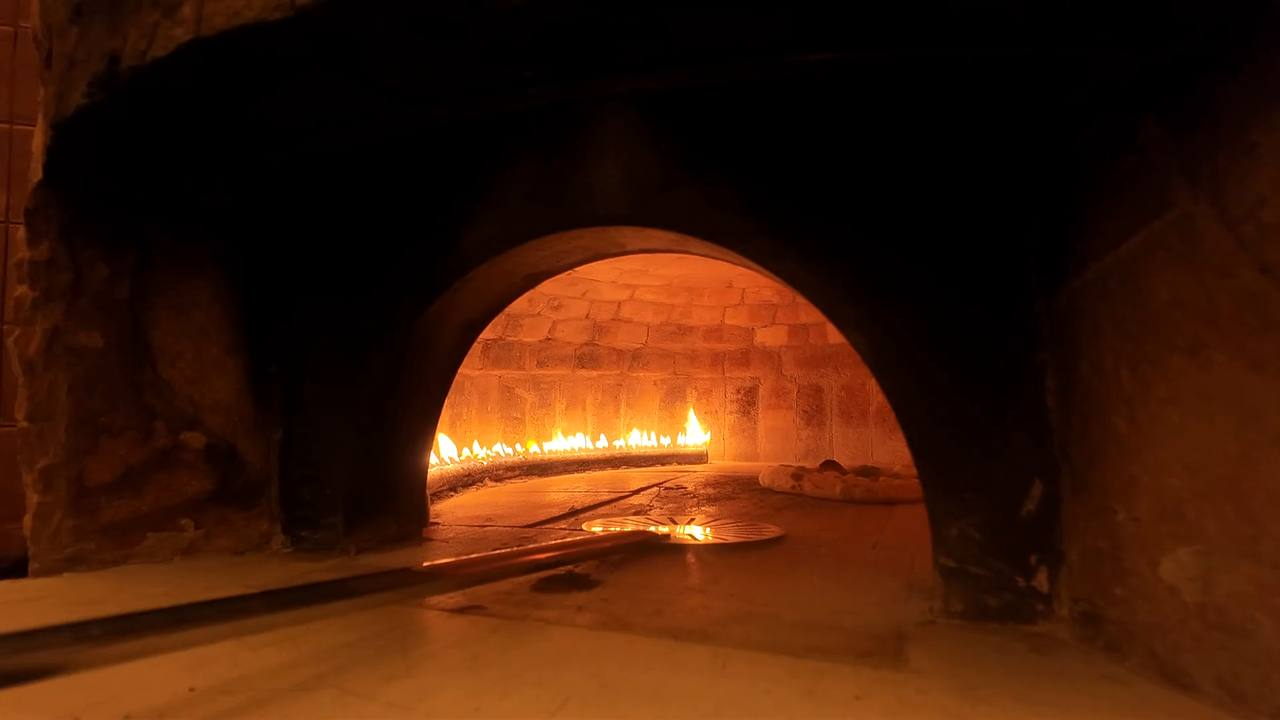
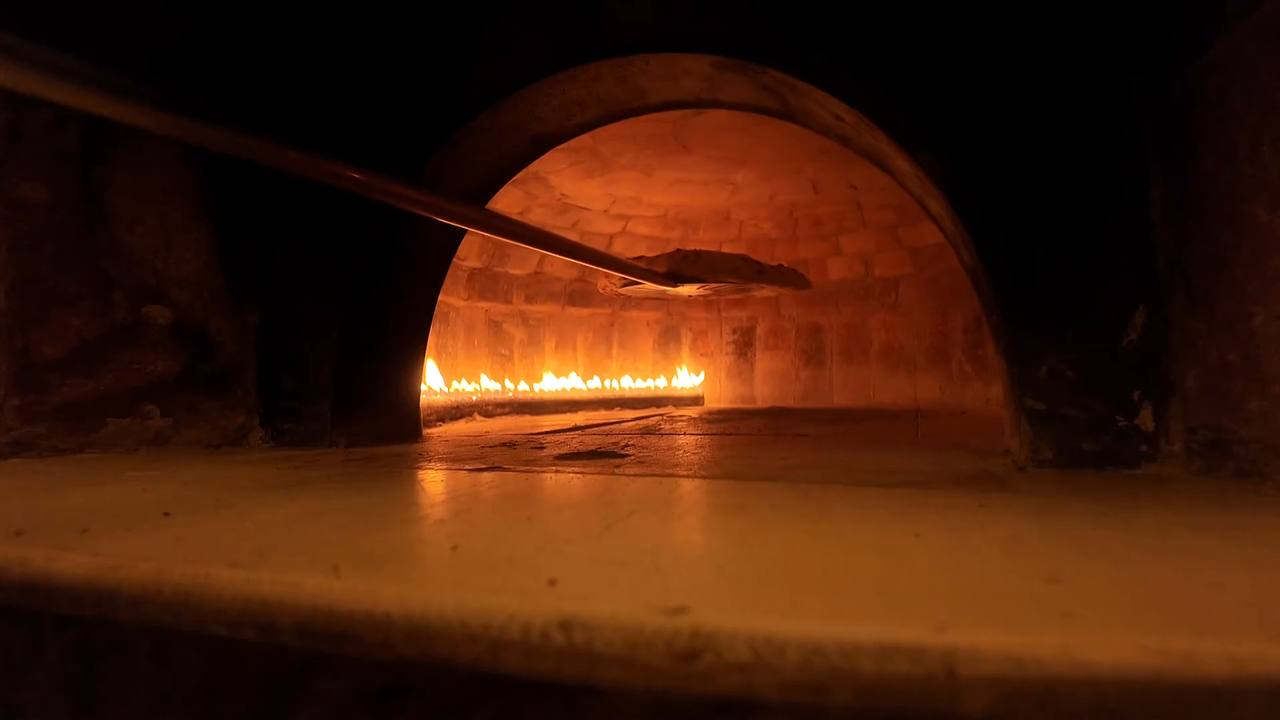
One continuous opening take; harden scroll film
- Pages one and two now play one continuous clip (no blend between clips)
- Denser frames through the camera swing
- Animation loop can no longer stop on a single frame error
- GPU errors / lost GPU context fall back to the 2D renderer
- Film downloads retry and are size-checked
- Phone rendering at the frames' native sharpness (less GPU load)

Claude-Session: https://claude.ai/code/session_017aSYkExJP4T4vXk3EamJRV

diff --git a/index.html b/index.html
@@ -437,7 +437,7 @@ footer .cols p{margin:0;max-width:70ch}
 <script>
 (()=>{
 "use strict";
-const SCENES={"oven":{"clip":39235626,"n":54,"d":[[0,35740],[35740,36372],[72112,36388],[108500,37065],[145565,37171],[182736,37197],[219933,37429],[257362,37205],[294567,37565],[332132,37301],[369433,36942],[406375,36518],[442893,36294],[479187,35791],[514978,35700],[550678,35978],[586656,36073],[622729,36647],[659376,36615],[695991,36679],[732670,36415],[769085,35722],[804807,35390],[840197,35523],[875720,35773],[911493,35118],[946611,35211],[981822,34676],[1016498,34458],[1050956,34788],[1085744,34705],[1120449,34988],[1155437,35598],[1191035,35930],[1226965,35802],[1262767,36278],[1299045,35987],[1335032,35881],[1370913,36199],[1407112,36198],[1443310,36746],[1480056,36833],[1516889,36803],[1553692,36996],[1590688,36227],[1626915,35592],[1662507,35682],[1698189,35875],[1734064,34855],[1768919,34775],[1803694,35449],[1839143,35639],[1874782,35886],[1910668,35090]],"m":[[0,24459],[24459,24672],[49131,24778],[73909,25272],[99181,25237],[124418,25334],[149752,25526],[175278,25562],[200840,25796],[226636,25538],[252174,25554],[277728,25399],[303127,25484],[328611,25294],[353905,25353],[379258,25630],[404888,25618],[430506,25979],[456485,26306],[482791,26082],[508873,25715],[534588,25006],[559594,25311],[584905,25646],[610551,25832],[636383,25407],[661790,25487],[687277,25078],[712355,24877],[737232,24963],[762195,24641],[786836,24684],[811520,25019],[836539,25236],[861775,24927],[886702,25168],[911870,25159],[937029,25004],[962033,25158],[987191,25018],[1012209,25475],[1037684,25278],[1062962,25317],[1088279,25208],[1113487,25035],[1138522,24861],[1163383,24639],[1188022,24494],[1212516,23619],[1236135,23291],[1259426,23384],[1282810,23701],[1306511,23757],[1330268,23065]],"mx0":0.2948,"mcw":0.45},"peel":{"clip":39235627,"n":84,"d":[[0,33680],[33680,35114],[68794,35333],[104127,36004],[140131,35535],[175666,34745],[210411,34818],[245229,35339],[280568,34958],[315526,35380],[350906,35137],[386043,34874],[420917,34146],[455063,33368],[488431,33378],[521809,33720],[555529,33444],[588973,33553],[622526,33534],[656060,33920],[689980,33982],[723962,35519],[759481,35424],[794905,35153],[830058,33353],[863411,32317],[895728,32442],[928170,32054],[960224,31002],[991226,31131],[1022357,31482],[1053839,31401],[1085240,32247],[1117487,31488],[1148975,32164],[1181139,32026],[1213165,31141],[1244306,31505],[1275811,31752],[1307563,30761],[1338324,31953],[1370277,35766],[1406043,37189],[1443232,37646],[1480878,37434],[1518312,36460],[1554772,35794],[1590566,35160],[1625726,34529],[1660255,35453],[1695708,35785],[1731493,37570],[1769063,37064],[1806127,36012],[1842139,33695],[1875834,31959],[1907793,32424],[1940217,33949],[1974166,35127],[2009293,34487],[2043780,33400],[2077180,32252],[2109432,32636],[2142068,33261],[2175329,32764],[2208093,33067],[2241160,33100],[2274260,33837],[2308097,31541],[2339638,33262],[2372900,32776],[2405676,33605],[2439281,33887],[2473168,33144],[2506312,33815],[2540127,36316],[2576443,36601],[2613044,37927],[2650971,37780],[2688751,37527],[2726278,37365],[2763643,37945],[2801588,38668],[2840256,40611]],"m":[[0,23815],[23815,25476],[49291,25955],[75246,26321],[101567,25885],[127452,25038],[152490,24823],[177313,24908],[202221,24418],[226639,24634],[251273,24048],[275321,23902],[299223,23032],[322255,21883],[344138,21764],[365902,21576],[387478,21185],[408663,20826],[429489,20522],[450011,20981],[470992,21319],[492311,22730],[515041,22542],[537583,22631],[560214,21669],[581883,21218],[603101,21862],[624963,22645],[647608,21019],[668627,20875],[689502,20945],[710447,20754],[731201,21494],[752695,21117],[773812,21556],[795368,21410],[816778,20555],[837333,20612],[857945,21233],[879178,20722],[899900,21532],[921432,24980],[946412,25990],[972402,26594],[998996,26252],[1025248,24985],[1050233,24116],[1074349,23369],[1097718,22877],[1120595,23699],[1144294,23518],[1167812,24736],[1192548,24124],[1216672,23438],[1240110,21525],[1261635,20321],[1281956,20402],[1302358,21397],[1323755,22182],[1345937,21202],[1367139,19739],[1386878,19359],[1406237,19658],[1425895,20028],[1445923,19785],[1465708,19718],[1485426,19547],[1504973,20262],[1525235,19084],[1544319,19998],[1564317,19712],[1584029,19871],[1603900,19964],[1623864,19470],[1643334,20548],[1663882,22305],[1686187,22470],[1708657,23709],[1732366,23320],[1755686,22569],[1778255,22367],[1800622,23037],[1823659,24061],[1847720,26335]],"mx0":0.275,"mcw":0.45},"blister":{"clip":10802555,"n":60,"d":[[0,39429],[39429,40670],[80099,41238],[121337,43835],[165172,44861],[210033,45623],[255656,47006],[302662,47257],[349919,47652],[397571,48415],[445986,48337],[494323,48375],[542698,48338],[591036,47896],[638932,46430],[685362,47030],[732392,46850],[779242,47127],[826369,47204],[873573,46135],[919708,45826],[965534,46192],[1011726,46581],[1058307,47148],[1105455,47653],[1153108,47808],[1200916,47559],[1248475,47179],[1295654,47287],[1342941,48090],[1391031,47888],[1438919,48334],[1487253,48058],[1535311,47687],[1582998,47588],[1630586,47850],[1678436,48030],[1726466,48520],[1774986,48203],[1823189,47986],[1871175,47944],[1919119,48071],[1967190,48649],[2015839,49542],[2065381,49872],[2115253,49774],[2165027,49863],[2214890,44569],[2259459,44634],[2304093,46342],[2350435,47937],[2398372,48852],[2447224,49220],[2496444,49696],[2546140,49825],[2595965,50155],[2646120,50086],[2696206,49779],[2745985,50362],[2796347,50777]],"m":[[0,21918],[21918,22271],[44189,22546],[66735,23892],[90627,24386],[115013,24715],[139728,25592],[165320,25715],[191035,25922],[216957,26253],[243210,26290],[269500,26133],[295633,26214],[321847,25904],[347751,25067],[372818,25034],[397852,24858],[422710,24763],[447473,24666],[472139,24254],[496393,24079],[520472,24407],[544879,24619],[569498,25016],[594514,25270],[619784,25333],[645117,25455],[670572,25289],[695861,25346],[721207,25579],[746786,25425],[772211,25471],[797682,25519],[823201,25357],[848558,25400],[873958,25629],[899587,25765],[925352,26025],[951377,25831],[977208,25697],[1002905,25761],[1028666,25744],[1054410,25988],[1080398,26385],[1106783,26729],[1133512,26674],[1160186,26871],[1187057,23906],[1210963,23922],[1234885,24818],[1259703,25742],[1285445,25902],[1311347,26139],[1337486,26229],[1363715,26366],[1390081,26474],[1416555,26358],[1442913,26378],[1469291,26732],[1496023,26885]],"mx0":0.325,"mcw":0.45},"fire":{"clip":5659678,"n":60,"d":[[0,28600],[28600,23347],[51947,30765],[82712,29602],[112314,29395],[141709,26617],[168326,33437],[201763,31006],[232769,29184],[261953,34437],[296390,24945],[321335,28822],[350157,29763],[379920,26873],[406793,24959],[431752,26752],[458504,32943],[491447,27638],[519085,29820],[548905,33634],[582539,29404],[611943,30837],[642780,32114],[674894,26270],[701164,30390],[731554,32276],[763830,25133],[788963,23622],[812585,26273],[838858,33434],[872292,29277],[901569,31846],[933415,33656],[967071,30257],[997328,30723],[1028051,35755],[1063806,24300],[1088106,29918],[1118024,31466],[1149490,29102],[1178592,25357],[1203949,28646],[1232595,33694],[1266289,30849],[1297138,32447],[1329585,32899],[1362484,32412],[1394896,30604],[1425500,22280],[1447780,21936],[1469716,29564],[1499280,30541],[1529821,25970],[1555791,25982],[1581773,26843],[1608616,32468],[1641084,31836],[1672920,31970],[1704890,28983],[1733873,30897]],"m":[[0,20116],[20116,16076],[36192,20262],[56454,20409],[76863,19563],[96426,18055],[114481,23072],[137553,19620],[157173,19319],[176492,21513],[198005,17917],[215922,20762],[236684,20460],[257144,17530],[274674,18869],[293543,17605],[311148,22256],[333404,18615],[352019,20517],[372536,22608],[395144,18995],[414139,20289],[434428,20056],[454484,18930],[473414,21595],[495009,21851],[516860,16764],[533624,17017],[550641,18003],[568644,21532],[590176,19553],[609729,22241],[631970,23250],[655220,21171],[676391,19861],[696252,22729],[718981,16806],[735787,21889],[757676,22988],[780664,21436],[802100,19466],[821566,20330],[841896,22372],[864268,21594],[885862,22497],[908359,21684],[930043,22740],[952783,20256],[973039,13533],[986572,15825],[1002397,20525],[1022922,22159],[1045081,18003],[1063084,19168],[1082252,18787],[1101039,20758],[1121797,21357],[1143154,22215],[1165369,18528],[1183897,21766]],"mx0":0.275,"mcw":0.45},"flour":{"clip":8135841,"n":60,"mx0":0.075,"mcw":0.45,"d":[[0,55085],[55085,54868],[109953,54566],[164519,54733],[219252,54341],[273593,54950],[328543,54354],[382897,54865],[437762,54713],[492475,55176],[547651,55120],[602771,55678],[658449,55764],[714213,56404],[770617,57086],[827703,57297],[885000,57630],[942630,58131],[1000761,58812],[1059573,58860],[1118433,58924],[1177357,58493],[1235850,58805],[1294655,59009],[1353664,59850],[1413514,60425],[1473939,60556],[1534495,61238],[1595733,60971],[1656704,61012],[1717716,60417],[1778133,60444],[1838577,59380],[1897957,59948],[1957905,59097],[2017002,59304],[2076306,59089],[2135395,59141],[2194536,58664],[2253200,58750],[2311950,58168],[2370118,58362],[2428480,57421],[2485901,57672],[2543573,56686],[2600259,57114],[2657373,56006],[2713379,56114],[2769493,55218],[2824711,55047],[2879758,55372],[2935130,55394],[2990524,56048],[3046572,56203],[3102775,55945],[3158720,56385],[3215105,55336],[3270441,55091],[3325532,54882],[3380414,55057]],"m":[[0,22989],[22989,22951],[45940,22804],[68744,22854],[91598,22781],[114379,22985],[137364,22955],[160319,23170],[183489,23416],[206905,23621],[230526,23899],[254425,24235],[278660,24594],[303254,25086],[328340,25796],[354136,26320],[380456,26661],[407117,27224],[434341,28002],[462343,28007],[490350,27829],[518179,27529],[545708,27409],[573117,27578],[600695,28052],[628747,28356],[657103,28556],[685659,29198],[714857,29031],[743888,28870],[772758,28435],[801193,28197],[829390,27523],[856913,27305],[884218,26624],[910842,26787],[937629,26618],[964247,26593],[990840,26532],[1017372,26361],[1043733,26137],[1069870,26313],[1096183,26080],[1122263,26145],[1148408,25778],[1174186,25866],[1200052,25357],[1225409,25137],[1250546,24432],[1274978,24106],[1299084,24190],[1323274,24394],[1347668,24734],[1372402,24628],[1397030,24386],[1421416,24271],[1445687,23933],[1469620,23577],[1493197,23497],[1516694,23499]]},"fold":{"clip":8094235,"n":90,"mx0":0.275,"mcw":0.45,"d":[[0,48257],[48257,48653],[96910,48840],[145750,48362],[194112,47408],[241520,47113],[288633,46285],[334918,45906],[380824,46302],[427126,46973],[474099,46751],[520850,47176],[568026,46275],[614301,47117],[661418,47186],[708604,46860],[755464,46043],[801507,45736],[847243,45742],[892985,45831],[938816,45836],[984652,45802],[1030454,45656],[1076110,45664],[1121774,45110],[1166884,45162],[1212046,44418],[1256464,44303],[1300767,43540],[1344307,44228],[1388535,44728],[1433263,45957],[1479220,45899],[1525119,45248],[1570367,45640],[1616007,45098],[1661105,44632],[1705737,45297],[1751034,44483],[1795517,44170],[1839687,43613],[1883300,42971],[1926271,45020],[1971291,44629],[2015920,45597],[2061517,47110],[2108627,47161],[2155788,47477],[2203265,45724],[2248989,46287],[2295276,46315],[2341591,43075],[2384666,44229],[2428895,47033],[2475928,48606],[2524534,49477],[2574011,48731],[2622742,48015],[2670757,46906],[2717663,46311],[2763974,45131],[2809105,46688],[2855793,46479],[2902272,46712],[2948984,47402],[2996386,47684],[3044070,47288],[3091358,44458],[3135816,43236],[3179052,43427],[3222479,42996],[3265475,42464],[3307939,41591],[3349530,42051],[3391581,41576],[3433157,41742],[3474899,41405],[3516304,41507],[3557811,41150],[3598961,41529],[3640490,41325],[3681815,41532],[3723347,41557],[3764904,41757],[3806661,41206],[3847867,41208],[3889075,40999],[3930074,41314],[3971388,41310],[4012698,41062]],"m":[[0,25316],[25316,25869],[51185,25853],[77038,25592],[102630,25221],[127851,25156],[153007,24728],[177735,24475],[202210,24488],[226698,24608],[251306,24597],[275903,24913],[300816,24517],[325333,24939],[350272,24960],[375232,24852],[400084,24392],[424476,23999],[448475,24025],[472500,24139],[496639,24275],[520914,24213],[545127,23769],[568896,23947],[592843,23809],[616652,23983],[640635,23813],[664448,23594],[688042,23601],[711643,23795],[735438,24111],[759549,24623],[784172,24314],[808486,24292],[832778,24646],[857424,24568],[881992,23909],[905901,23917],[929818,22561],[952379,22915],[975294,23563],[998857,22232],[1021089,23370],[1044459,23395],[1067854,23627],[1091481,24485],[1115966,24627],[1140593,24733],[1165326,23320],[1188646,23351],[1211997,23761],[1235758,20932],[1256690,21204],[1277894,21744],[1299638,23061],[1322699,23875],[1346574,24103],[1370677,23927],[1394604,23737],[1418341,24172],[1442513,23303],[1465816,22957],[1488773,22801],[1511574,23614],[1535188,24351],[1559539,24587],[1584126,24309],[1608435,22940],[1631375,21642],[1653017,21537],[1674554,22027],[1696581,21940],[1718521,21764],[1740285,22105],[1762390,22235],[1784625,22438],[1807063,22401],[1829464,22682],[1852146,22568],[1874714,22620],[1897334,22448],[1919782,22239],[1942021,22103],[1964124,22320],[1986444,22077],[2008521,22032],[2030553,21865],[2052418,21800],[2074218,21916],[2096134,21667]]},"steam":{"clip":8094284,"n":60,"d":[[0,77318],[77318,77275],[154593,77005],[231598,77240],[308838,77506],[386344,76969],[463313,78016],[541329,78235],[619564,78251],[697815,78017],[775832,78285],[854117,78877],[932994,78718],[1011712,78547],[1090259,78818],[1169077,79260],[1248337,79261],[1327598,79412],[1407010,79627],[1486637,79864],[1566501,79931],[1646432,80131],[1726563,79863],[1806426,79658],[1886084,78566],[1964650,77802],[2042452,77997],[2120449,78634],[2199083,78793],[2277876,78937],[2356813,78996],[2435809,78944],[2514753,79011],[2593764,79310],[2673074,79042],[2752116,79472],[2831588,79571],[2911159,79696],[2990855,80251],[3071106,80300],[3151406,80728],[3232134,80209],[3312343,80578],[3392921,80982],[3473903,80499],[3554402,79598],[3634000,78936],[3712936,78451],[3791387,78608],[3869995,78136],[3948131,78861],[4026992,79635],[4106627,78905],[4185532,78722],[4264254,79353],[4343607,79050],[4422657,79397],[4502054,79268],[4581322,79783],[4661105,79598]],"m":[[0,43385],[43385,43129],[86514,43100],[129614,43198],[172812,43275],[216087,43254],[259341,43750],[303091,43723],[346814,43861],[390675,43695],[434370,43799],[478169,44208],[522377,44233],[566610,44369],[610979,44185],[655164,44443],[699607,44555],[744162,44596],[788758,44880],[833638,44835],[878473,44708],[923181,44939],[968120,45160],[1013280,44812],[1058092,44077],[1102169,43881],[1146050,43831],[1189881,43819],[1233700,44135],[1277835,44111],[1321946,44072],[1366018,44127],[1410145,44403],[1454548,44567],[1499115,44514],[1543629,44520],[1588149,44335],[1632484,44793],[1677277,45255],[1722532,45138],[1767670,45251],[1812921,44938],[1857859,45275],[1903134,45466],[1948600,45147],[1993747,44534],[2038281,43832],[2082113,43801],[2125914,43957],[2169871,43633],[2213504,43921],[2257425,43915],[2301340,43874],[2345214,43695],[2388909,43991],[2432900,43981],[2476881,44286],[2521167,44231],[2565398,44309],[2609707,44258]],"mx0":0.4948,"mcw":0.45}};
+const SCENES={"oven":{"clip":39235627,"n":76,"mx0":0.275,"mcw":0.45,"d":[[0,33057],[33057,34632],[67689,34872],[102561,35053],[137614,35230],[172844,35250],[208094,36001],[244095,35791],[279886,35597],[315483,35535],[351018,34884],[385902,35047],[420949,34589],[455538,34818],[490356,34841],[525197,35339],[560536,35281],[595817,34958],[630775,35278],[666053,35380],[701433,35849],[737282,34950],[772232,34842],[807074,34874],[841948,34682],[876630,34529],[911159,34031],[945190,33612],[978802,33399],[1012201,33267],[1045468,33663],[1079131,33396],[1112527,33370],[1145897,33266],[1179163,33873],[1213036,33670],[1246706,33632],[1280338,33406],[1313744,33206],[1346950,33988],[1380938,34068],[1415006,34081],[1449087,34329],[1483416,35331],[1518747,35982],[1554729,35607],[1590336,35424],[1625760,35052],[1660812,34178],[1694990,34345],[1729335,33353],[1762688,33126],[1795814,32317],[1828131,32195],[1860326,32747],[1893073,32925],[1925998,32054],[1958052,31738],[1989790,30968],[2020758,31092],[2051850,30744],[2082594,31229],[2113823,31532],[2145355,31563],[2176918,32038],[2208956,31498],[2240454,31977],[2272431,31532],[2303963,31298],[2335261,32001],[2367262,31893],[2399155,32497],[2431652,32216],[2463868,32447],[2496315,31851],[2528166,30611]],"m":[[0,23144],[23144,24805],[47949,25352],[73301,25597],[98898,25688],[124586,25732],[150318,26319],[176637,26057],[202694,26125],[228819,25885],[254704,25292],[279996,25213],[305209,24747],[329956,24823],[354779,24777],[379556,24908],[404464,24811],[429275,24418],[453693,24510],[478203,24634],[502837,24863],[527700,23956],[551656,23919],[575575,23902],[599477,23674],[623151,23436],[646587,22719],[669306,22120],[691426,21944],[713370,21766],[735136,21684],[756820,21530],[778350,21327],[799677,21186],[820863,21328],[842191,20981],[863172,20729],[883901,20557],[904458,20271],[924729,20828],[945557,21119],[966676,21214],[987890,21615],[1009505,22525],[1032030,23033],[1055063,22660],[1077723,22542],[1100265,22433],[1122698,21872],[1144570,22056],[1166626,21669],[1188295,21641],[1209936,21218],[1231154,21265],[1252419,21871],[1274290,22545],[1296835,22645],[1319480,22220],[1341700,21090],[1362790,20998],[1383788,20482],[1404270,20925],[1425195,21074],[1446269,20998],[1467267,21211],[1488478,21013],[1509491,21202],[1530693,20804],[1551497,20889],[1572386,21278],[1593664,21483],[1615147,21789],[1636936,21760],[1658696,21827],[1680523,21057],[1701580,20086]]},"peel":{"clip":39235627,"n":96,"mx0":0.275,"mcw":0.45,"d":[[0,31116],[31116,31291],[62407,30796],[93203,31418],[124621,31185],[155806,30821],[186627,30935],[217562,32331],[249893,33136],[283029,36160],[319189,37070],[356259,37393],[393652,37257],[430909,37646],[468555,37414],[505969,37033],[543002,36753],[579755,36460],[616215,36891],[653106,35794],[688900,35709],[724609,35160],[759769,34521],[794290,34529],[828819,33925],[862744,34893],[897637,35520],[933157,35785],[968942,36790],[1005732,37338],[1043070,37462],[1080532,37064],[1117596,37001],[1154597,37237],[1191834,35301],[1227135,34262],[1261397,32448],[1293845,31841],[1325686,32267],[1357953,32002],[1389955,32314],[1422269,33133],[1455402,34391],[1489793,35423],[1525216,35238],[1560454,34740],[1595194,33909],[1629103,33361],[1662464,33749],[1696213,32566],[1728779,32455],[1761234,32361],[1793595,33065],[1826660,33209],[1859869,33279],[1893148,32698],[1925846,32413],[1958259,33155],[1991414,33589],[2025003,33172],[2058175,33338],[2091513,33603],[2125116,33837],[2158953,33122],[2192075,31794],[2223869,32792],[2256661,33262],[2289923,33295],[2323218,32776],[2355994,32963],[2388957,33605],[2422562,33580],[2456142,33887],[2490029,33427],[2523456,33303],[2556759,33039],[2589798,33815],[2623613,35194],[2658807,35712],[2694519,36407],[2730926,36601],[2767527,36949],[2804476,37898],[2842374,37934],[2880308,38374],[2918682,37811],[2956493,37086],[2993579,37323],[3030902,37064],[3067966,37640],[3105606,37812],[3143418,38113],[3181531,38722],[3220253,38842],[3259095,40236],[3299331,40569]],"m":[[0,20403],[20403,20521],[40924,20280],[61204,20924],[82128,20768],[102896,20640],[123536,20742],[144278,21668],[165946,22603],[188549,25364],[213913,25852],[239765,26207],[265972,26091],[292063,26594],[318657,26269],[344926,25794],[370720,25499],[396219,24985],[421204,25196],[446400,24116],[470516,23985],[494501,23369],[517870,22819],[540689,22877],[563566,22620],[586186,23349],[609535,23739],[633274,23518],[656792,24396],[681188,24411],[705599,24598],[730197,24124],[754321,24026],[778347,24109],[802456,22847],[825303,22086],[847389,20730],[868119,20213],[888332,20468],[908800,20129],[928929,20244],[949173,20715],[969888,21685],[991573,22418],[1013991,22306],[1036297,21724],[1058021,20754],[1078775,19798],[1098573,20052],[1118625,19345],[1137970,19521],[1157491,19534],[1177025,19911],[1196936,20020],[1216956,19953],[1236909,19725],[1256634,19623],[1276257,19850],[1296107,20053],[1316160,19720],[1335880,19718],[1355598,19960],[1375558,20262],[1395820,19809],[1415629,19127],[1434756,19756],[1454512,19998],[1474510,20050],[1494560,19712],[1514272,19562],[1533834,19871],[1553705,19774],[1573479,19964],[1593443,19662],[1613105,19543],[1632648,19610],[1652258,20548],[1672806,21568],[1694374,21909],[1716283,22412],[1738695,22470],[1761165,22585],[1783750,23698],[1807448,23693],[1831141,23777],[1854918,23030],[1877948,22271],[1900219,22215],[1922434,22123],[1944557,22495],[1967052,22806],[1989858,23334],[2013192,24038],[2037230,24349],[2061579,25536],[2087115,26421]]},"blister":{"clip":10802555,"n":60,"d":[[0,39429],[39429,40670],[80099,41238],[121337,43835],[165172,44861],[210033,45623],[255656,47006],[302662,47257],[349919,47652],[397571,48415],[445986,48337],[494323,48375],[542698,48338],[591036,47896],[638932,46430],[685362,47030],[732392,46850],[779242,47127],[826369,47204],[873573,46135],[919708,45826],[965534,46192],[1011726,46581],[1058307,47148],[1105455,47653],[1153108,47808],[1200916,47559],[1248475,47179],[1295654,47287],[1342941,48090],[1391031,47888],[1438919,48334],[1487253,48058],[1535311,47687],[1582998,47588],[1630586,47850],[1678436,48030],[1726466,48520],[1774986,48203],[1823189,47986],[1871175,47944],[1919119,48071],[1967190,48649],[2015839,49542],[2065381,49872],[2115253,49774],[2165027,49863],[2214890,44569],[2259459,44634],[2304093,46342],[2350435,47937],[2398372,48852],[2447224,49220],[2496444,49696],[2546140,49825],[2595965,50155],[2646120,50086],[2696206,49779],[2745985,50362],[2796347,50777]],"m":[[0,21918],[21918,22271],[44189,22546],[66735,23892],[90627,24386],[115013,24715],[139728,25592],[165320,25715],[191035,25922],[216957,26253],[243210,26290],[269500,26133],[295633,26214],[321847,25904],[347751,25067],[372818,25034],[397852,24858],[422710,24763],[447473,24666],[472139,24254],[496393,24079],[520472,24407],[544879,24619],[569498,25016],[594514,25270],[619784,25333],[645117,25455],[670572,25289],[695861,25346],[721207,25579],[746786,25425],[772211,25471],[797682,25519],[823201,25357],[848558,25400],[873958,25629],[899587,25765],[925352,26025],[951377,25831],[977208,25697],[1002905,25761],[1028666,25744],[1054410,25988],[1080398,26385],[1106783,26729],[1133512,26674],[1160186,26871],[1187057,23906],[1210963,23922],[1234885,24818],[1259703,25742],[1285445,25902],[1311347,26139],[1337486,26229],[1363715,26366],[1390081,26474],[1416555,26358],[1442913,26378],[1469291,26732],[1496023,26885]],"mx0":0.325,"mcw":0.45},"fire":{"clip":5659678,"n":60,"d":[[0,28600],[28600,23347],[51947,30765],[82712,29602],[112314,29395],[141709,26617],[168326,33437],[201763,31006],[232769,29184],[261953,34437],[296390,24945],[321335,28822],[350157,29763],[379920,26873],[406793,24959],[431752,26752],[458504,32943],[491447,27638],[519085,29820],[548905,33634],[582539,29404],[611943,30837],[642780,32114],[674894,26270],[701164,30390],[731554,32276],[763830,25133],[788963,23622],[812585,26273],[838858,33434],[872292,29277],[901569,31846],[933415,33656],[967071,30257],[997328,30723],[1028051,35755],[1063806,24300],[1088106,29918],[1118024,31466],[1149490,29102],[1178592,25357],[1203949,28646],[1232595,33694],[1266289,30849],[1297138,32447],[1329585,32899],[1362484,32412],[1394896,30604],[1425500,22280],[1447780,21936],[1469716,29564],[1499280,30541],[1529821,25970],[1555791,25982],[1581773,26843],[1608616,32468],[1641084,31836],[1672920,31970],[1704890,28983],[1733873,30897]],"m":[[0,20116],[20116,16076],[36192,20262],[56454,20409],[76863,19563],[96426,18055],[114481,23072],[137553,19620],[157173,19319],[176492,21513],[198005,17917],[215922,20762],[236684,20460],[257144,17530],[274674,18869],[293543,17605],[311148,22256],[333404,18615],[352019,20517],[372536,22608],[395144,18995],[414139,20289],[434428,20056],[454484,18930],[473414,21595],[495009,21851],[516860,16764],[533624,17017],[550641,18003],[568644,21532],[590176,19553],[609729,22241],[631970,23250],[655220,21171],[676391,19861],[696252,22729],[718981,16806],[735787,21889],[757676,22988],[780664,21436],[802100,19466],[821566,20330],[841896,22372],[864268,21594],[885862,22497],[908359,21684],[930043,22740],[952783,20256],[973039,13533],[986572,15825],[1002397,20525],[1022922,22159],[1045081,18003],[1063084,19168],[1082252,18787],[1101039,20758],[1121797,21357],[1143154,22215],[1165369,18528],[1183897,21766]],"mx0":0.275,"mcw":0.45},"flour":{"clip":8135841,"n":60,"mx0":0.075,"mcw":0.45,"d":[[0,55085],[55085,54868],[109953,54566],[164519,54733],[219252,54341],[273593,54950],[328543,54354],[382897,54865],[437762,54713],[492475,55176],[547651,55120],[602771,55678],[658449,55764],[714213,56404],[770617,57086],[827703,57297],[885000,57630],[942630,58131],[1000761,58812],[1059573,58860],[1118433,58924],[1177357,58493],[1235850,58805],[1294655,59009],[1353664,59850],[1413514,60425],[1473939,60556],[1534495,61238],[1595733,60971],[1656704,61012],[1717716,60417],[1778133,60444],[1838577,59380],[1897957,59948],[1957905,59097],[2017002,59304],[2076306,59089],[2135395,59141],[2194536,58664],[2253200,58750],[2311950,58168],[2370118,58362],[2428480,57421],[2485901,57672],[2543573,56686],[2600259,57114],[2657373,56006],[2713379,56114],[2769493,55218],[2824711,55047],[2879758,55372],[2935130,55394],[2990524,56048],[3046572,56203],[3102775,55945],[3158720,56385],[3215105,55336],[3270441,55091],[3325532,54882],[3380414,55057]],"m":[[0,22989],[22989,22951],[45940,22804],[68744,22854],[91598,22781],[114379,22985],[137364,22955],[160319,23170],[183489,23416],[206905,23621],[230526,23899],[254425,24235],[278660,24594],[303254,25086],[328340,25796],[354136,26320],[380456,26661],[407117,27224],[434341,28002],[462343,28007],[490350,27829],[518179,27529],[545708,27409],[573117,27578],[600695,28052],[628747,28356],[657103,28556],[685659,29198],[714857,29031],[743888,28870],[772758,28435],[801193,28197],[829390,27523],[856913,27305],[884218,26624],[910842,26787],[937629,26618],[964247,26593],[990840,26532],[1017372,26361],[1043733,26137],[1069870,26313],[1096183,26080],[1122263,26145],[1148408,25778],[1174186,25866],[1200052,25357],[1225409,25137],[1250546,24432],[1274978,24106],[1299084,24190],[1323274,24394],[1347668,24734],[1372402,24628],[1397030,24386],[1421416,24271],[1445687,23933],[1469620,23577],[1493197,23497],[1516694,23499]]},"fold":{"clip":8094235,"n":90,"mx0":0.275,"mcw":0.45,"d":[[0,48257],[48257,48653],[96910,48840],[145750,48362],[194112,47408],[241520,47113],[288633,46285],[334918,45906],[380824,46302],[427126,46973],[474099,46751],[520850,47176],[568026,46275],[614301,47117],[661418,47186],[708604,46860],[755464,46043],[801507,45736],[847243,45742],[892985,45831],[938816,45836],[984652,45802],[1030454,45656],[1076110,45664],[1121774,45110],[1166884,45162],[1212046,44418],[1256464,44303],[1300767,43540],[1344307,44228],[1388535,44728],[1433263,45957],[1479220,45899],[1525119,45248],[1570367,45640],[1616007,45098],[1661105,44632],[1705737,45297],[1751034,44483],[1795517,44170],[1839687,43613],[1883300,42971],[1926271,45020],[1971291,44629],[2015920,45597],[2061517,47110],[2108627,47161],[2155788,47477],[2203265,45724],[2248989,46287],[2295276,46315],[2341591,43075],[2384666,44229],[2428895,47033],[2475928,48606],[2524534,49477],[2574011,48731],[2622742,48015],[2670757,46906],[2717663,46311],[2763974,45131],[2809105,46688],[2855793,46479],[2902272,46712],[2948984,47402],[2996386,47684],[3044070,47288],[3091358,44458],[3135816,43236],[3179052,43427],[3222479,42996],[3265475,42464],[3307939,41591],[3349530,42051],[3391581,41576],[3433157,41742],[3474899,41405],[3516304,41507],[3557811,41150],[3598961,41529],[3640490,41325],[3681815,41532],[3723347,41557],[3764904,41757],[3806661,41206],[3847867,41208],[3889075,40999],[3930074,41314],[3971388,41310],[4012698,41062]],"m":[[0,25316],[25316,25869],[51185,25853],[77038,25592],[102630,25221],[127851,25156],[153007,24728],[177735,24475],[202210,24488],[226698,24608],[251306,24597],[275903,24913],[300816,24517],[325333,24939],[350272,24960],[375232,24852],[400084,24392],[424476,23999],[448475,24025],[472500,24139],[496639,24275],[520914,24213],[545127,23769],[568896,23947],[592843,23809],[616652,23983],[640635,23813],[664448,23594],[688042,23601],[711643,23795],[735438,24111],[759549,24623],[784172,24314],[808486,24292],[832778,24646],[857424,24568],[881992,23909],[905901,23917],[929818,22561],[952379,22915],[975294,23563],[998857,22232],[1021089,23370],[1044459,23395],[1067854,23627],[1091481,24485],[1115966,24627],[1140593,24733],[1165326,23320],[1188646,23351],[1211997,23761],[1235758,20932],[1256690,21204],[1277894,21744],[1299638,23061],[1322699,23875],[1346574,24103],[1370677,23927],[1394604,23737],[1418341,24172],[1442513,23303],[1465816,22957],[1488773,22801],[1511574,23614],[1535188,24351],[1559539,24587],[1584126,24309],[1608435,22940],[1631375,21642],[1653017,21537],[1674554,22027],[1696581,21940],[1718521,21764],[1740285,22105],[1762390,22235],[1784625,22438],[1807063,22401],[1829464,22682],[1852146,22568],[1874714,22620],[1897334,22448],[1919782,22239],[1942021,22103],[1964124,22320],[1986444,22077],[2008521,22032],[2030553,21865],[2052418,21800],[2074218,21916],[2096134,21667]]},"steam":{"clip":8094284,"n":60,"d":[[0,77318],[77318,77275],[154593,77005],[231598,77240],[308838,77506],[386344,76969],[463313,78016],[541329,78235],[619564,78251],[697815,78017],[775832,78285],[854117,78877],[932994,78718],[1011712,78547],[1090259,78818],[1169077,79260],[1248337,79261],[1327598,79412],[1407010,79627],[1486637,79864],[1566501,79931],[1646432,80131],[1726563,79863],[1806426,79658],[1886084,78566],[1964650,77802],[2042452,77997],[2120449,78634],[2199083,78793],[2277876,78937],[2356813,78996],[2435809,78944],[2514753,79011],[2593764,79310],[2673074,79042],[2752116,79472],[2831588,79571],[2911159,79696],[2990855,80251],[3071106,80300],[3151406,80728],[3232134,80209],[3312343,80578],[3392921,80982],[3473903,80499],[3554402,79598],[3634000,78936],[3712936,78451],[3791387,78608],[3869995,78136],[3948131,78861],[4026992,79635],[4106627,78905],[4185532,78722],[4264254,79353],[4343607,79050],[4422657,79397],[4502054,79268],[4581322,79783],[4661105,79598]],"m":[[0,43385],[43385,43129],[86514,43100],[129614,43198],[172812,43275],[216087,43254],[259341,43750],[303091,43723],[346814,43861],[390675,43695],[434370,43799],[478169,44208],[522377,44233],[566610,44369],[610979,44185],[655164,44443],[699607,44555],[744162,44596],[788758,44880],[833638,44835],[878473,44708],[923181,44939],[968120,45160],[1013280,44812],[1058092,44077],[1102169,43881],[1146050,43831],[1189881,43819],[1233700,44135],[1277835,44111],[1321946,44072],[1366018,44127],[1410145,44403],[1454548,44567],[1499115,44514],[1543629,44520],[1588149,44335],[1632484,44793],[1677277,45255],[1722532,45138],[1767670,45251],[1812921,44938],[1857859,45275],[1903134,45466],[1948600,45147],[1993747,44534],[2038281,43832],[2082113,43801],[2125914,43957],[2169871,43633],[2213504,43921],[2257425,43915],[2301340,43874],[2345214,43695],[2388909,43991],[2432900,43981],[2476881,44286],[2521167,44231],[2565398,44309],[2609707,44258]],"mx0":0.4948,"mcw":0.45}};
 const WA_NUMBER=""; // restaurant's WhatsApp in international format, digits only, e.g. 2547XXXXXXXX
 const ORDER=Object.keys(SCENES);
 const WEIGHT={oven:1.0,peel:1.25,blister:1.1,fire:.8,flour:1.05,fold:1.3,steam:1.05};
@@ -468,15 +468,20 @@ for(const k of ORDER){const im=new Image();im.decoding="async";im.src=`f/${k}-${
 let loadedBytes=0,totalBytes=0;
 for(const k of ORDER){for(const [o,l] of SCENES[k][TAG]) totalBytes+=l}
 async function loadPack(k){
-  const p=packs[k];if(p.blob||p.loading)return;p.loading=true;
+  for(let attempt=0;attempt<4;attempt++){await loadPackOnce(k);if(packs[k].blob||TAG!==packs[k].tag)return;await new Promise(z=>setTimeout(z,1500*(attempt+1)))}
+}
+async function loadPackOnce(k){
+  const p=packs[k];if(p.blob||p.loading)return;p.loading=true;p.failed=false;p.tag=TAG;let got=0;
   try{
     const r=await fetch(`f/${k}-${TAG}.film.jpg`);
     if(!r.ok)throw new Error(r.status);
     const reader=r.body&&r.body.getReader?r.body.getReader():null;
-    if(reader){const chunks=[];for(;;){const {done,value}=await reader.read();if(done)break;chunks.push(value);loadedBytes+=value.length;showLoad()}p.blob=new Blob(chunks)}
+    if(reader){const chunks=[];for(;;){const {done,value}=await reader.read();if(done)break;chunks.push(value);got+=value.length;loadedBytes+=value.length;showLoad()}p.blob=new Blob(chunks)}
     else{p.blob=await r.blob();loadedBytes+=p.blob.size;showLoad()}
     p.idx=SCENES[k][TAG];{const ex=p.idx.reduce((a,[o,l])=>Math.max(a,o+l),0);DBG.sizes[k]=[p.blob.size,ex,r.headers.get("content-type")]}
-  }catch(e){p.failed=true;console.warn("film pack failed",k,e)}
+    const ex=SCENES[k][TAG].reduce((a,[o,l])=>Math.max(a,o+l),0);
+    if(p.blob.size<ex){p.blob=null;throw new Error("incomplete download "+got+"/"+ex)}
+  }catch(e){p.failed=true;loadedBytes-=got;console.warn("film pack failed",k,e)}
   p.loading=false;need=true;
 }
 const lb=$("#loadbar");
@@ -507,7 +512,7 @@ const curFrame={};
 let W=0,H=0;
 function size(){
   const nt=tag();
-  const d=Math.min(devicePixelRatio||1,nt==="m"?2:1.5);SW=scv.width=Math.round(innerWidth*d);SH=scv.height=Math.round(innerHeight*d);need=true;
+  const d=Math.min(devicePixelRatio||1,nt==="m"?1.65:1.5); /* phone: 390px x 1.65 ~ the 640px frames, no wasted GPU work */SW=scv.width=Math.round(innerWidth*d);SH=scv.height=Math.round(innerHeight*d);need=true;
   root.classList.toggle("phone",nt==="m");
   glc.width=SW;glc.height=nt==="m"?Math.round(SW*1.25):SH;
   if(nt==="m"){W=fcv.width=SW;H=fcv.height=Math.round(SW*1.25);FY=Math.round(parseFloat(getComputedStyle(root).getPropertyValue("--hud-h"))*d||52*d);cv=fcv;ctx=fctx}
@@ -569,7 +574,6 @@ function smoke(a,drift){if(a<=0)return;const s=Math.max(W,H)*1.9,y=H*.5-s/2+(1-d
 /* Transitions: A = outgoing scene, B = incoming. k runs 0..1 across the transition. */
 const TRANS={
   // 1 · one continuous shot: the camera creeps into the oven and dissolves into the closer peel clip
-  oven(A,B,k){const f=conv("oven",OVEN_F);put(A,{z:OVEN_Z0+(OVEN_Z1-OVEN_Z0)*k,f});put(B,{a:sm(.3,.8,k),f})},
   // 2 · heat bloom: push onto the crust, the oven's heat flares white-orange, and the bloom settles into the blistering close-up
   peel(A,B,k){put(A,{z:1+0.45*k,f:focal("peel")});glow("rgba(255,190,110,1)",Math.sin(Math.PI*sm(.1,.9,k))*1.1,.5,.6,.75);
     put(B,{a:sm(.42,.75,k),z:1.25-0.25*sm(.42,1,k),f:focal("blister")})},
@@ -724,9 +728,12 @@ void main(){
   }
   return {draw};
 })();
-if(GL)root.classList.add("gl");
-const OVEN_Z0=1.08,OVEN_Z1=1.15,OVEN_F=[.6,.69]; // measured from the arch: oven end x1.15 about OVEN_F = peel frame at LEAD
-const MODE={oven:1,peel:2,blister:3,fire:4,flour:5,fold:6};
+let glDead=false;
+function killGL(){glDead=true;root.classList.remove("gl");need=true}
+if(GL){root.classList.add("gl");glc.addEventListener("webglcontextlost",e=>{e.preventDefault();killGL()})}
+const OVEN_F=[.6,.69];
+const CONT=new Set(["oven"]); // scene that runs straight into the next one: same clip, one continuous take, no transition
+const MODE={peel:2,blister:3,fire:4,flour:5,fold:6};
 const TF={ // where each cut aims, in source-frame coords: [outgoing point, incoming point]
   oven:[["oven",[.6,.69]],["peel",[.6,.69]]],
   peel:[["peel",[.52,.78]],["blister",[.5,.72]]],
@@ -734,20 +741,18 @@ const TF={ // where each cut aims, in source-frame coords: [outgoing point, inco
   fire:[["fire",[.5,.6]],["flour",[.3,.6]]],
   flour:[["flour",[.29,.8]],["fold",[.5,.55]]],
   fold:[["fold",[.47,.64]],["steam",[.75,.4]]]};
-let animUntil=0;const STILL=location.hash==="#still"; // test hook: no idle shimmer redraws
+let animUntil=0;const STILL=/still/.test(location.hash); // test hook: no idle shimmer redraws
 function drawGL(s,t,idx,nx){
-  const lead=idx===0?0:LEAD,span=nx?X:1,uA=lead+(1-lead)*Math.min(1,t/span);
-  if(nx&&t>X&&MODE[s.k]){
+  const prev=ORDER[idx-1],lead=(idx===0||CONT.has(prev))?0:LEAD,cont=CONT.has(s.k),span=(nx&&!cont)?X:1,uA=lead+(1-lead)*Math.min(1,t/span);
+  if(nx&&!cont&&t>X&&MODE[s.k]){
     const k=(t-X)/(1-X),A=imgFor(s.k,1-(1-k)*0.12),B=imgFor(nx.k,s.k==="oven"?LEAD:LEAD*k),f=TF[s.k]; // the oven join holds the peel shot on its matched frame
     const C=null;
-    const one=s.k==="oven"; // the oven shot creeps on into the peel shot: 1.25 -> 1.38 matches the second clip's framing
-    GL.draw({mode:MODE[s.k],A,B,C,k,fA:conv(f[0][0],f[0][1]),fB:conv(f[1][0],f[1][1]),zA:one?OVEN_Z0+(OVEN_Z1-OVEN_Z0)*k:1,zB:1});
+    GL.draw({mode:MODE[s.k],A,B,C,k,fA:conv(f[0][0],f[0][1]),fB:conv(f[1][0],f[1][1]),zA:1,zB:1});
     animUntil=performance.now()+120; // keep the shimmer alive while a cut is on screen
     glowSrc=k<.5?A:(B||A);return !!A;
   }
-  const img=imgFor(s.k,nx?uA*0.88:uA);
+  const img=imgFor(s.k,(nx&&!cont)?uA*0.88:uA);
   if(!nx){GL.draw({mode:7,A:img,k:sm(.5,1,t),fA:focal(s.k),zA:1});animUntil=performance.now()+120}
-  else if(s.k==="oven")GL.draw({mode:0,A:img,fA:conv("oven",OVEN_F),zA:1+(OVEN_Z0-1)*ease(uA)});
   else GL.draw({mode:0,A:img,fA:focal(s.k),zA:1});
   glowSrc=img;return !!img;
 }
@@ -761,17 +766,19 @@ function phoneGlow(){ // phone: blurred glow of the current shot behind the wind
 function render(){
   const p=cur,s=seg(p),t=(p-s.a)/(s.b-s.a),idx=ORDER.indexOf(s.k),nx=SEG[idx+1];
   let ok;
-  if(GL){ok=drawGL(s,t,idx,nx);if(TAG==="m")phoneGlow()}else{
+  let usedGL=false;
+  if(GL&&!glDead){try{ok=drawGL(s,t,idx,nx);if(TAG==="m")phoneGlow();usedGL=true}catch(e){console.warn("GPU render failed, switching to 2D",e);killGL()}}
+  if(!usedGL){
   ctx.globalAlpha=1;ctx.fillStyle="#0d0b0a";ctx.fillRect(0,0,W,H);
-  const lead=idx===0?0:LEAD,span=nx?X:1;
+  const prev=ORDER[idx-1],lead=(idx===0||CONT.has(prev))?0:LEAD,cont=CONT.has(s.k),span=(nx&&!cont)?X:1;
   const uA=lead+(1-lead)*Math.min(1,t/span); // own frames until the transition starts
-  if(nx&&t>X&&TRANS[s.k]){
+  if(nx&&!cont&&t>X&&TRANS[s.k]){
     const k=(t-X)/(1-X);
     // outgoing keeps moving through its last frames; incoming is already rolling through its lead-in frames
     const A=imgFor(s.k,1-(1-k)*0.12),B=imgFor(nx.k,LEAD*k);
     TRANS[s.k](A,B,k);ok=!!A;
   }else{
-    const img=imgFor(s.k,nx?uA*0.88:uA);ok=put(img,{z:1,f:focal(s.k)});
+    const img=imgFor(s.k,(nx&&!cont)?uA*0.88:uA);ok=put(img,{z:1,f:focal(s.k)});
     if(!nx){ // last scene: steam rises and the kitchen goes dark as the menu arrives
       smoke(sm(.55,.95,t)*.9,t*.6);wash(sm(.72,1,t)*.92)}
   }
@@ -788,7 +795,7 @@ function render(){
   }
   // readout
   const R=READ[s.k];
-  if(R[2]===0&&R[1]===0){ro.box.style.opacity=0}else{ro.box.style.opacity=(t>X+.04&&nx)||(!nx&&t>.75)?0:1;ro.label.textContent=R[0];ro.unit.textContent=R[3];
+  if(R[2]===0&&R[1]===0){ro.box.style.opacity=0}else{ro.box.style.opacity=(t>X+.04&&nx&&!CONT.has(s.k))||(!nx&&t>.75)?0:1;ro.label.textContent=R[0];ro.unit.textContent=R[3];
     const v=R[1]+(R[2]-R[1])*Math.min(1,Math.max(0,(t-.05)/.65));ro.num.textContent=Math.round(v)}
   // fire accent
   const f=WOK.has(s.k)&&!(s.k==="fire"&&t<.25)?"wok":"oven";
@@ -809,6 +816,10 @@ function rulerUpdate(){
 }
 let lastT=performance.now(),jumping=false,frames=0,fps=0;setInterval(()=>{fps=frames;frames=0},1000);
 function loop(now){
+  requestAnimationFrame(loop); // schedule first, so an error in one frame can never stop the film
+  try{step(now)}catch(e){console.warn("frame error",e);DBG.fail++;DBG.err="loop: "+String(e).slice(0,50)}
+}
+function step(now){
   {const pr=progress();if(Math.abs(pr-target)>1e-5){target=pr;need=true}}
   frames++;
   const dt=Math.min(.05,(now-lastT)/1000)||.016;lastT=now;
@@ -816,9 +827,8 @@ function loop(now){
   const d=target-cur,k=1-Math.pow(1-SLOWMO,dt*60);
   if(reduce||Math.abs(d)<1e-4){cur=target;jumping=false}else{cur+=d*k}
   if(need||Math.abs(d)>1e-4||(!STILL&&performance.now()<animUntil)){need=false;if(story.getBoundingClientRect().bottom>0)render();rulerUpdate()}
-  requestAnimationFrame(loop);
 }
-if(location.hash==="#debug"){const d=document.createElement("pre");d.style.cssText="position:fixed;left:4px;top:60px;z-index:99;background:#000d;color:#0f0;font:10px/1.3 monospace;padding:6px;max-width:96vw;white-space:pre-wrap;pointer-events:none";document.body.appendChild(d);
+if(/debug/.test(location.hash)){const d=document.createElement("pre");d.style.cssText="position:fixed;left:4px;top:60px;z-index:99;background:#000d;color:#0f0;font:10px/1.3 monospace;padding:6px;max-width:96vw;white-space:pre-wrap;pointer-events:none";document.body.appendChild(d);
   setInterval(()=>{d.textContent=`fps:${fps} scrollEv:${scrollEvents} sy:${Math.round(scrollY)} ih:${innerHeight} vis:${document.visibilityState}\ngl:${!!GL} tag:${TAG} dpr:${devicePixelRatio} vw:${innerWidth}x${innerHeight} bitmap:${useBitmap}\ndecoded ok:${DBG.ok} fail:${DBG.fail} ${DBG.err}\ncur:${cur.toFixed(3)} target:${target.toFixed(3)}\n`+Object.entries(DBG.sizes).map(([k,v])=>`${k}: got ${v[0]} expect ${v[1]} ${v[2]}`).join("\n")+"\n"+ORDER.map(k=>k+(packs[k].failed?" FAILED":packs[k].blob?" loaded":" ...")).join(" ")},500)}
 size();target=cur=progress();requestAnimationFrame(t=>{lastT=t;loop(t)});
 
